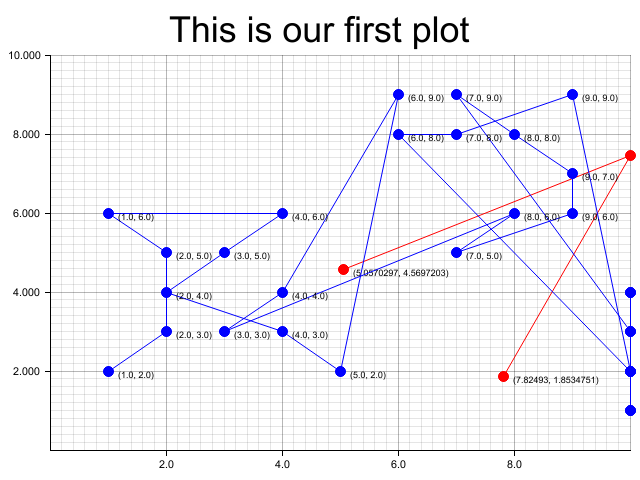
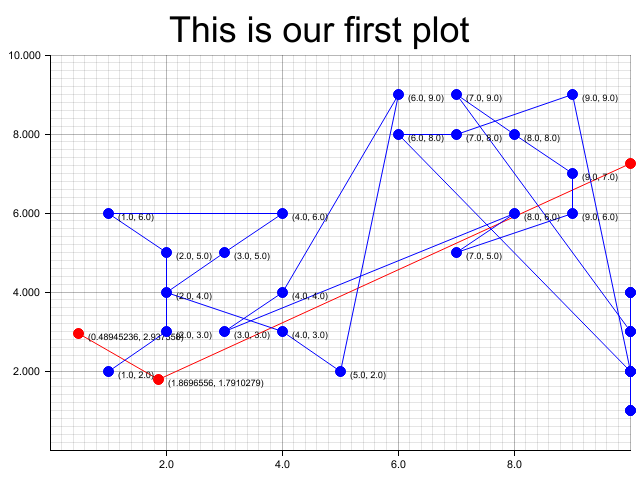
Add debuggers

diff --git a/src/kmeans.rs b/src/kmeans.rs
@@ -85,6 +85,11 @@ impl KlusterMeans {
     }
 
     pub fn set_centroid(&mut self, index: usize, value: i32) -> bool {
+        println!(
+            "set_centroid  {} {}",
+            index,
+            self.centroid_assignments.len()
+        );
         match self.centroid_exist(index) {
             Some(val) => {
                 self.centroid_assignments[index] = value;
@@ -96,6 +101,11 @@ impl KlusterMeans {
     }
 
     pub fn centroid_exist(&self, index: usize) -> Option<i32> {
+        println!(
+            "centroid_exist  {} {}",
+            index,
+            self.centroid_assignments.len()
+        );
         match self.centroid_assignments.get(index) {
             Some(value) => Some(*value),
             None => None,
@@ -104,11 +114,23 @@ impl KlusterMeans {
     ///
     /// ERROR is in this method, last_assigned always None
     pub fn assign_point_to_centroid(&mut self, point_index: usize) -> bool {
+        println!(" assign_point_to_centroid {}", point_index);
         let last_assigned = self.centroid_exist(point_index);
         let mut min_distance = 0.0;
         let mut assigned_centroid: Option<i32> = None;
-        for index in 0..self.centroids.len() {
+        for index in 0..self.centroids.len() - 1 {
+            println!(
+                " assign_point_to_centroid2 {} {}",
+                index,
+                self.centroids.len()
+            );
+
             let centroid = self.centroids[index];
+            println!(
+                " assign_point_to_centroid3 {} {}",
+                point_index,
+                self.points.len()
+            );
             let distance_to_centroid = distance(self.points[point_index], centroid);
 
             if min_distance == 0.0 || distance_to_centroid < min_distance {
@@ -119,6 +141,7 @@ impl KlusterMeans {
         // println!("assigned_centroid {:?}", &assigned_centroid);
         // println!("last_assigned {:?}", point_index);
         if let Some(centroid) = assigned_centroid {
+            println!(" assign_point_to_centroid4 {}", point_index);
             self.set_centroid(point_index, centroid);
 
             if let Some(last) = last_assigned {
@@ -132,6 +155,7 @@ impl KlusterMeans {
     pub fn assign_points_to_centroids(&mut self) -> bool {
         let mut was_any_reassigned = false;
         for index in 0..self.points.len() {
+            println!("assign_points_to_centroids {} {}", index, self.points.len());
             let was_reassigned = self.assign_point_to_centroid(index);
             if was_reassigned == true {
                 return true;
@@ -142,16 +166,22 @@ impl KlusterMeans {
     pub fn get_points_for_centroid(&self, centroid_index: usize) -> Vec<Point> {
         let mut points: Vec<Point> = vec![];
         for index in 0..self.points.len() {
-            let assignment = self.centroid_exist(index);
-            if let Some(value) = assignment {
-                if value == centroid_index as i32 {
-                    points.push(self.points[index])
-                }
+            println!(
+                "get_points_for_centroid {} {}",
+                index,
+                self.centroid_assignments.len()
+            );
+
+            let assignment = self.centroid_assignments[index]; // self.centroid_exist(index);
+            if assignment == centroid_index as i32 {
+                points.push(self.points[index])
             }
         }
         points
     }
     pub fn update_centroid_location(&mut self, index: usize) -> Point {
+        println!("update_centroid_location {}", index);
+
         let centroid_points = self.get_points_for_centroid(index);
         let mut centroid: Point = [0.0, 0.0];
 
@@ -164,13 +194,14 @@ impl KlusterMeans {
             let means = mean(points);
 
             centroid[dimension] = means;
-            println!("CENTROID  {}", means);
         }
         self.centroids[index] = centroid;
         centroid
     }
     pub fn update_centroid_locations(&mut self) {
-        for index in 0..self.centroids.len() {
+        for index in 0..self.centroids.len() - 1 {
+            println!("update_centroid_locations {}", index);
+
             self.update_centroid_location(index);
         }
     }

diff --git a/src/utils.rs b/src/utils.rs
@@ -2,7 +2,6 @@ use rand::{thread_rng, Rng};
 
 pub fn mean(numbers: Vec<f32>) -> f32 {
     let result = numbers.iter().fold(0.0, |acc, value| acc + value);
-    println!("numbers {:?}", result);
     if numbers.len() == 0 {
         return result;
     }
